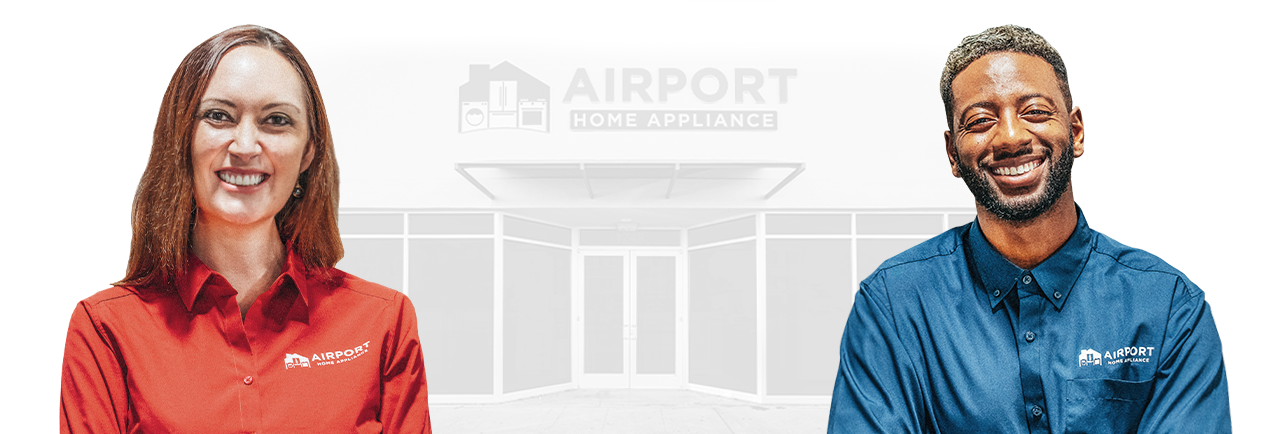
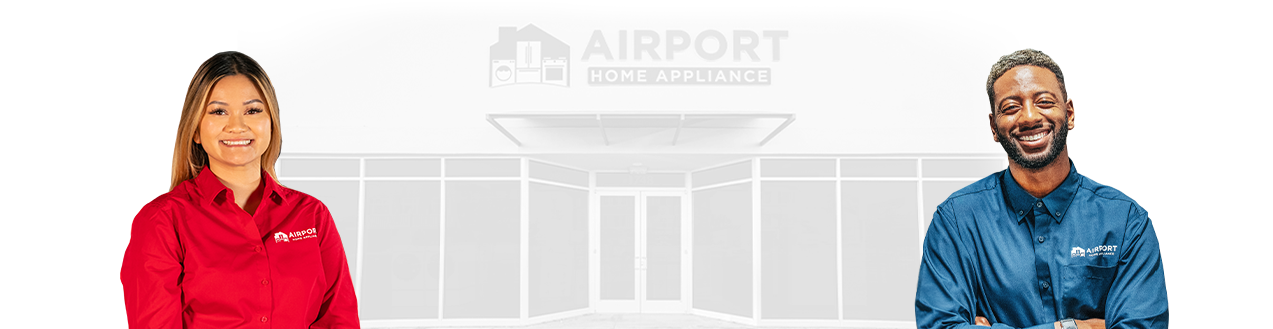
fix - laundry page and support page

diff --git a/style.css b/style.css
@@ -207,6 +207,36 @@ p {
    font-family: gotham-book;
 }
  
+.lp-single-product-imgdiv.sale {
+    background-color: transparent;
+    border: 9px solid #ca0629;
+    border-radius: 12px;
+    height: 240px;
+
+    -webkit-box-sizing: border-box;
+    -moz-box-sizing: border-box;
+    box-sizing: border-box;
+}
+
+.lp-single-product-imgdiv.sale span {
+    color: #ca0629;
+    text-transform: uppercase;
+    font-weight: 700;
+    font-size: 52px;
+    font-family: gotham-black;
+
+    position: absolute;
+    top: 50%;
+    left: 50%;
+
+    -webkit-transform: translate(-50%, -50%);
+    -moz-transform: translate(-50%, -50%);
+    -ms-transform: translate(-50%, -50%);
+    -o-transform: translate(-50%, -50%);
+    transform: translate(-50%, -50%);
+}
+
+
 
 /* Brand Sections */ 
 
@@ -316,7 +346,21 @@ p {
 }
 
 
+.lp-single-brand.samsung > img {
+    top: 40px;
+}
 
+.lp-single-brand.lg > img {
+    top: 80px;
+}
+
+.lp-single-brand.ge > img {
+    top: 90px;
+}
+
+.lp-single-brand.whirlpool > img {
+    top: 60px;
+}
 
 /* Picks Sections */ 
 
@@ -803,7 +847,7 @@ p {
 .lp-banner-image.support-page {
   position: relative;
   background-image: url(img/support/banner.png);
-  height: 420px; 
+  height: 340px; 
   background-size: cover;
   background-position: top; 
 
@@ -1025,10 +1069,6 @@ p {
   display: none;
 }
 
-.support-icon-div:hover {
-  box-shadow: -0.518px 1.932px 12px 0px rgb(0 0 0 / 25%);
-}
-
 .support-icon-imgdiv {
     display: block;
     overflow: hidden;
@@ -1038,8 +1078,7 @@ p {
 }
 
 .support-icon-imgdiv img {
-    display: block;
-    max-width: 50px;
+    display: block; 
     max-height: 50px;
     margin: 0 auto;
 }
@@ -1076,6 +1115,32 @@ p {
 /**********************************
       Mobile Responsiveness
 **********************************/
+
+
+
+
+@media screen and (max-width: 26.25em) {
+
+
+  /* Offer Section */
+
+  .lp-single-offer img {
+    display: block;
+    margin: 0 auto;
+  }
+
+  .lp-single-offer-title {
+    display: block;
+    margin-left: 0;
+    text-align: center;
+  }
+
+
+
+}
+
+
+
 
 @media screen and (max-width: 35.5em) {
 

diff --git a/support.html b/support.html
@@ -235,7 +235,7 @@
 
                         <h3>Highly Trained Experts</h3>
 
-                        <p>Before you purchase your refrigerator, our experts recommend you know the dimensions of the space you want your new refrigerator.</p>
+                        <p>Our Associates go through a rigorous training and certification process which requires them to have a deep understanding of the brands we carry. Watch this video and see for yourself why we have some of the most knowledgeable staff in the entire country.</p>
 
                      </div>
 
@@ -275,7 +275,7 @@
 
                      <a href="https://www.airportappliance.com/rebates/" class="support-icon-div">
                         <div class="support-icon-imgdiv">
-                           <img src="img/support/rebates.jpg"> 
+                           <img src="img/support/rebates.png"> 
                         </div>
                         <p>Rebates</p>
                      </a>

diff --git a/laundry.html b/laundry.html
@@ -115,9 +115,9 @@
 
                   <div class="pure-u-1-2 pure-u-lg-1-5">
                      <div class="lp-single-product">
-                        <a href="https://www.airportappliance.com/refrigerators/specialty/" class="lp-single-product-imgdiv">
-                           <img src="img/reftype/winecooler.png">
-                        </a>
+                        <a href="https://www.airportappliance.com/current-ads/" class="lp-single-product-imgdiv sale">
+                           <span>Sale</span> 
+                        </a> 
                         <p class="lp-single-product-name">Washers & Dryers <br> On SALE</p>
                      </div>
                   </div> 
